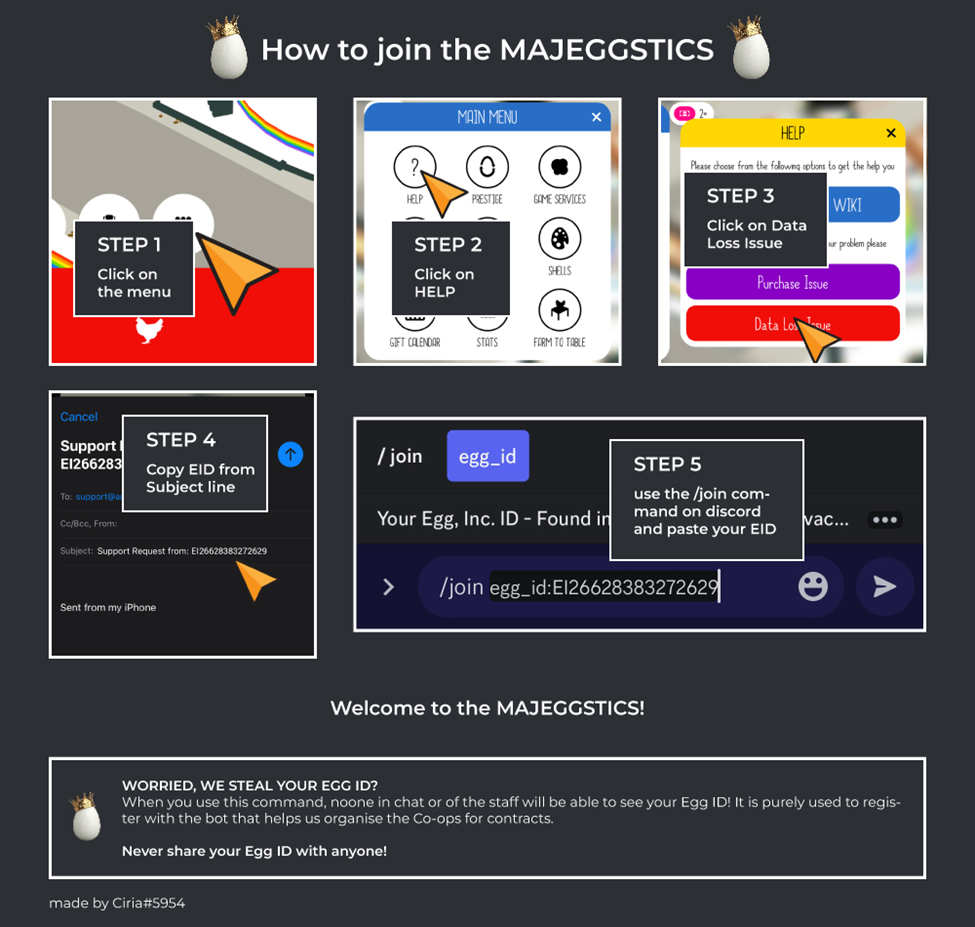
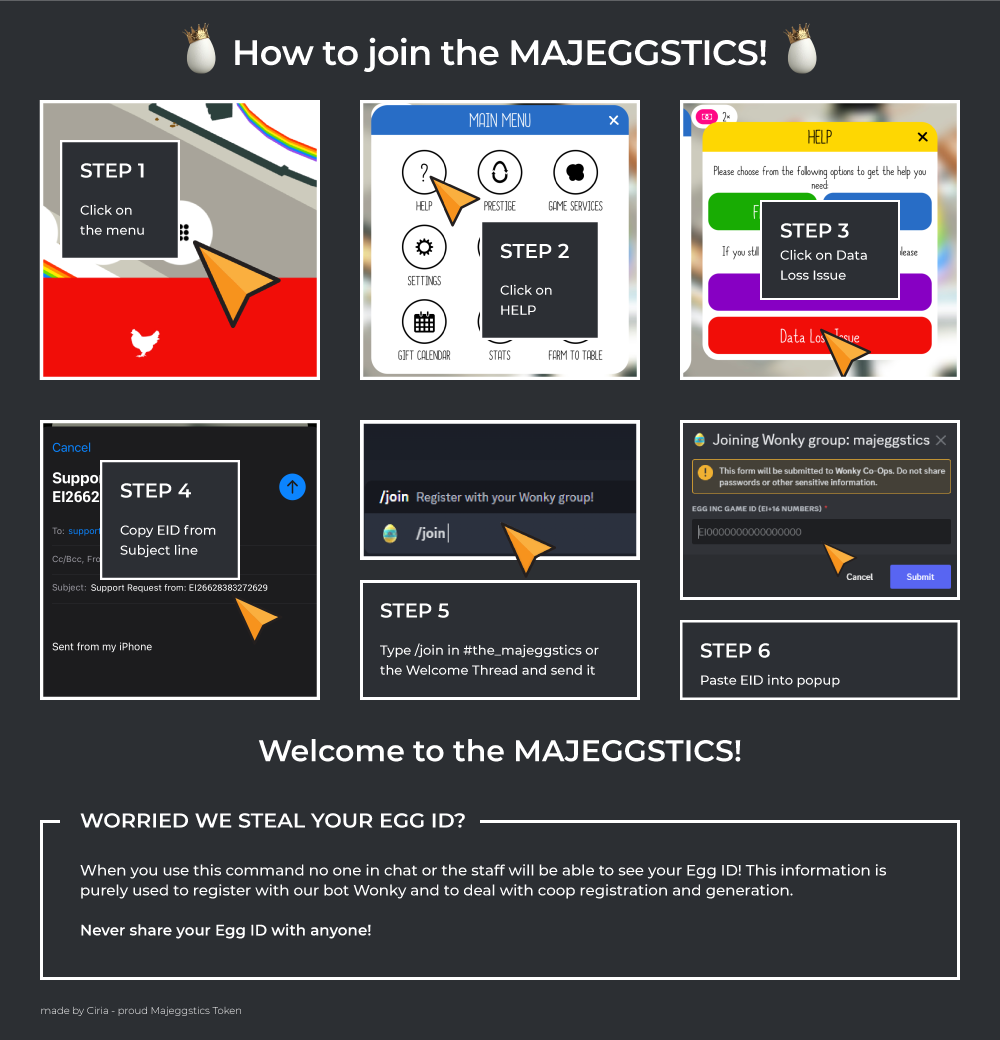
Moved Routes to App component. Updated guide page with Material UI typography. Changed the howToJoinTheMajeggstics image to the latest one. Removed App.css file

diff --git a/src/guide.jsx b/src/guide.jsx
@@ -1,3 +1,5 @@
+import Typography from '@mui/material/Typography';
+
 import newContractIcon from './assets/guide/newContractIcon.jpg';
 import inGameContractInfoPage from './assets/guide/inGameContractInfoPage.png';
 import farmReadyToReceiveCBs from './assets/guide/farmReadyToReceiveCBs.png';
@@ -6,46 +8,46 @@ import howToJoinTheMajeggstics from './assets/guide/howToJoinTheMajeggstics.png'
 
 export default function Guide() {
   return (
-    <main>
+    <main id="guide">
       <section>
-        <h1>
+        <Typography variant="h2" gutterBottom>
           Majeggstics Guide & Rule Book!
-        </h1>
-        <p>Welcome to The Majeggstics, where No Farmer is Left Behind!</p>
-        <p>
+        </Typography>
+        <Typography variant="body1" gutterBottom>Welcome to The Majeggstics, where <em>No Farmer is Left Behind!</em></Typography>
+        <Typography variant="body1" gutterBottom>
           Majeggstics is a worldwide group of Egg Inc. players with the common goal of making sure every player can complete every contract, by optimizing play strategies and making fair contributions to our co-ops.
-        </p>
+        </Typography>
       </section>
       <section>
-        <h2>Minimum rules</h2>
-        <p>
+        <Typography variant="h4" gutterBottom>Minimum rules</Typography>
+        <Typography variant="body1" gutterBottom>
           The Majeggstics are a team - we expect everyone to contribute to our co-ops. When you register for a contract, you are agreeing to meet the minimum contribution for that contract.
-        </p>
-        <p className="bold">
+        </Typography>
+        <Typography variant="body1" gutterBottom>
           The minimum egg laying rate for each contract is posted in #MJ-Announcements. Minimum is measured at 12 and 24 hours after contract start.
-        </p>
-        <p>
+        </Typography>
+        <Typography variant="body1" gutterBottom>
           The 12 hour minimum is lower than the 24 hour minimum. If you meet the 12 hour minimum, you have passed! If you don’t meet the 12 hour minimum, you still have not failed, but you must meet the 24 hour minimum to pass.
-        </p>
-        <p>
+        </Typography>
+        <Typography variant="body1" gutterBottom>
           You will receive a strike for joining your contract later than 5 hours after start, and an additional strike if you have not joined by the 24 hour check. (Strikes may also be given for inappropriate behavior in chat, and server staff are notified when server rules are broken.)
-        </p>
-        <p>
+        </Typography>
+        <Typography variant="body1" gutterBottom>
           Tokens are the human players who manage the Majeggstics - we recruit new members, help people play the game more efficiently, start and add people to co-op groups, and confirm everyone has met the minimum required laying rate for each contract.
-        </p>
-        <p>
+        </Typography>
+        <Typography variant="body1" gutterBottom>
           A token will communicate with you if you receive a strike. Strikes are recorded. After four strikes, you will be removed from Majeggstics. Strikes are only counted for the last 20 contracts you complete - after that, strikes are erased.
-        </p>
-        <p>
+        </Typography>
+        <Typography variant="body1" gutterBottom>
           After a strike, a token will create a private thread in #the_majeggstics to talk to you about what happened, and make sure you are supported to be successful in the future. If you’re concerned you won’t be successful, you can send mj-support anywhere in Majeggstics channels and a support Token will help you out. It can take time to respond, so ask for help using mj-support early on!
-        </p>
-        <p>
+        </Typography>
+        <Typography variant="body1" gutterBottom>
           Remember that the Majeggstic’s goal is to see everyone succeed. Minimums are meant to help you, not hurt. If you’re struggling to meet minimum or need help with a contract, ask for advice in #the_majeggstics or your grade’s Majeggstics channel. The group would be thrilled to help, and everyone will have the chance to learn along with you!
-        </p>
+        </Typography>
       </section>
       <section>
-        <h2>Registering for a Contract
-        </h2>
+        <Typography variant="h4" gutterBottom>Registering for a Contract
+        </Typography>
         <table>
           <thead>
             <tr>
@@ -78,12 +80,12 @@ export default function Guide() {
           </tbody>
         </table>
         <br />
-        <p>
+        <Typography variant="body1" gutterBottom>
           <img src={newContractIcon} alt="New Contract Icon" />
           <span>
             [Image Description: New Contract Icon]
           </span>
-        </p>
+        </Typography>
         <ul>
           <li>
             Monday has a new contract for everyone. The first Monday of each month has a new Prophecy Egg (PE) contract.
@@ -95,15 +97,15 @@ export default function Guide() {
             If you want to be pinged when contracts are released, go to #optional-roles and select the “Contracts” role.
           </li>
         </ul>
-        <p>
+        <Typography variant="body1" gutterBottom>
           When a new contract is released, Wonky, our beloved bot, will generate a registration post in #mj-announcements. Select a time slot - we start contracts at 3 times - +1, +6, and +12 hours after the contract release. Register for the time slot that&apos;s most convenient for your schedule. You must join your co-op and start your farm within 5 hours of your start time. It is your responsibility to register early and join your co-op.
-        </p>
-        <p>Registration for each time slot is finalized when Wonky creates co-ops. We recommend you sign up at least 15 minutes early, as co-ops may be created up to 5 minutes early because of the size of our group. If co-ops are late, be patient with initiators. </p>
-        <p>Late registrations may be accepted depending on initiator availability and available spaces in our co-ops. If you are unable to register for a contract with Majeggstics, you can join a public co-op in the &quot;Co-Op Recruitment&quot; section and join us for the next contract! </p>
+        </Typography>
+        <Typography variant="body1" gutterBottom>Registration for each time slot is finalized when Wonky creates co-ops. We recommend you sign up at least 15 minutes early, as co-ops may be created up to 5 minutes early because of the size of our group. If co-ops are late, be patient with initiators. </Typography>
+        <Typography variant="body1" gutterBottom>Late registrations may be accepted depending on initiator availability and available spaces in our co-ops. If you are unable to register for a contract with Majeggstics, you can join a public co-op in the &quot;Co-Op Recruitment&quot; section and join us for the next contract! </Typography>
       </section>
       <section>
-        <h2>Joining your Co-op</h2>
-        <p>Ping! Pong! Wonky generated your co-op and started a thread in your grade’s channel. Check your DMs from Wonky for the contract code. If you’re the first person, double-check your contract code, then start the co-op immediately. Do not wait in the lobby.</p>
+        <Typography variant="h4" gutterBottom>Joining your Co-op</Typography>
+        <Typography variant="body1" gutterBottom>Ping! Pong! Wonky generated your co-op and started a thread in your grade’s channel. Check your DMs from Wonky for the contract code. If you’re the first person, double-check your contract code, then start the co-op immediately. Do not wait in the lobby.</Typography>
 
         <ul>
           <li>Our co-ops are set to private to ensure that everyone participating meets our expectations. Do not share your co-op code or set the co-op to public - this can result in Majeggstics getting kicked from our co-ops and makes extra work for tokens.
@@ -137,7 +139,7 @@ export default function Guide() {
         </ul>
       </section>
       <section>
-        <h2>Start and grow your contract farm</h2>
+        <Typography variant="h4" gutterBottom>Start and grow your contract farm</Typography>
         <ul>
           <li>Finish common research, buy habs, and buy transport.
             <ul>
@@ -196,9 +198,9 @@ export default function Guide() {
         </ul>
       </section>
       <section>
-        <h2>
+        <Typography variant="h4" gutterBottom>
           Boosting
-        </h2>
+        </Typography>
         <ul>
           <li>
             Use GomCalc, Forks’ Egg Inc Tools, and Hashtru’s Contract Boost Calculator to help determine the best boost combination for your goals - these will vary widely depending on the contract, number of players in your group, your EB, and artifacts.
@@ -218,9 +220,9 @@ export default function Guide() {
         </ul>
       </section>
       <section>
-        <h2>
+        <Typography variant="h4" gutterBottom>
           Post-boosting
-        </h2>
+        </Typography>
         <ul>
           <li>
             Tachyon Deflectors boost your co-op mates' laying rates - since Majeggstics aim for equal contributions, a deflector will benefit your co-op overall more than any artifact that only works on your individual farm.
@@ -256,16 +258,16 @@ export default function Guide() {
         </ul>
       </section>
       <section>
-        <h2>Completion</h2>
+        <Typography variant="h4" gutterBottom>Completion</Typography>
         <ul>
           <li>Check in ASAP after the contract has finished so that your contract score can be calculated. </li>
         </ul>
       </section>
       <section>
-        <h2>Taking Breaks & Leaving</h2>
-        <p>
+        <Typography variant="h4" gutterBottom>Taking Breaks & Leaving</Typography>
+        <Typography variant="body1" gutterBottom>
           We’re here to help you be successful with contracts, but we understand that sometimes you need a break.
-        </p>
+        </Typography>
         <ul>
           <li>Not registering - you can skip registering for contracts with us whenever you like with no penalties.
           </li>
@@ -278,8 +280,8 @@ export default function Guide() {
         </ul>
       </section>
       <section>
-        <h2>Code of Conduct</h2>
-        <p>Is it a privilege for Majeggstics to have access to private channels and Wonky in the Egg, Inc. server. Because of our special status, we have high expectations for your behavior in our channels and around the server.</p>
+        <Typography variant="h4" gutterBottom>Code of Conduct</Typography>
+        <Typography variant="body1" gutterBottom>Is it a privilege for Majeggstics to have access to private channels and Wonky in the Egg, Inc. server. Because of our special status, we have high expectations for your behavior in our channels and around the server.</Typography>
         <ul>
           <li>Follow server #rules. Majeggstics members and channels must follow the Egg, Inc. server rules. Violating server rules will lead to removal from Majeggstics and the Egg, Inc. server. </li>
           <li>Keep chat in Majeggstics kind and appropriate for all, and be a good representative of Majeggstics in public channels. </li>
@@ -335,7 +337,7 @@ export default function Guide() {
         </ul>
       </section>
       <section>
-        <h2>Useful Links</h2>
+        <Typography variant="h4" gutterBottom>Useful Links</Typography>
         <ul>
           <li>Server #Rules</li>
           <li>Ciria’s Useful Links Pin in #the_majeggstics</li>
@@ -345,22 +347,22 @@ export default function Guide() {
         </ul>
       </section>
       <section>
-        <h2>Joining Majeggstics</h2>
-        <p>Ready to get started?</p>
-        <p>Open the game and find your EID: Open the ‘9 dots’ menu, touch ‘Help’, then ‘Data Loss Issue’. This will open an email, and you can copy your EID from the subject line. You’ll receive a confirmation DM from Wonky, the bot who helps run our co-ops, and your EID will be deleted from the chat to protect your privacy.</p>
-        <p>By sending the /join command, you are agreeing to follow Majeggstics rules. </p>
-        <p>
+        <Typography variant="h4" gutterBottom>Joining Majeggstics</Typography>
+        <Typography variant="body1" gutterBottom>Ready to get started?</Typography>
+        <Typography variant="body1" gutterBottom>Open the game and find your EID: Open the ‘9 dots’ menu, touch ‘Help’, then ‘Data Loss Issue’. This will open an email, and you can copy your EID from the subject line. You’ll receive a confirmation DM from Wonky, the bot who helps run our co-ops, and your EID will be deleted from the chat to protect your privacy.</Typography>
+        <Typography variant="body1" gutterBottom>By sending the /join command, you are agreeing to follow Majeggstics rules. </Typography>
+        <Typography variant="body1" gutterBottom>
           <img src={howToJoinTheMajeggstics} alt="How to join the Mageggstics" />
-        </p>
-        <p>
+        </Typography>
+        <Typography variant="body1" gutterBottom>
           Welcome to the Majeggstics, we’re happy to have you!
-        </p>
-        <p>
+        </Typography>
+        <Typography variant="body1" gutterBottom>
           If Majeggstics won’t be a good fit for you, DM @megadanger and ask to be removed from the group. Check the staff list in #mj-announcements to find our current member manager.
-        </p>
-        <p>
+        </Typography>
+        <Typography variant="body1" gutterBottom>
           The public “#Co-Op Recruitment” section can help you find co-ops, or you can look for other open groups that may fit your goals and needs better.
-        </p>
+        </Typography>
       </section>
     </main >
   )

diff --git a/src/App.jsx b/src/App.jsx
@@ -1,37 +1,21 @@
-import { Link } from 'react-router-dom'
-import './App.css'
+import { Route, Routes } from 'react-router-dom';
+
+import ErrorPage from './error-page.jsx';
+import Guide from './guide.jsx';
+import Home from './home.jsx';
 
 function App() {
-
   return (
-    <main>
-      <h1>The Majeggstics</h1>
-      <section>
-        <div>
-          <h3>
-            Welcome to The Majeggstics, where No Farmer is Left Behind!
-          </h3>
-          <p>
-            Majeggstics is a worldwide group of Egg Inc. players with the common goal of making sure every player can complete every contract, by optimizing play strategies and making fair contributions to our co-ops.
-          </p>
-          <br />
-          <p>
-            How to join our group? <br />
+    <Routes>
+      <Route path="/" element={<Home />} />
+      <Route path="guide" element={<Guide />} />
 
-            You&apos;ll need to join the Egg Inc. discord server at the link below and <abbr title="Direct Message">DM</abbr> one of our recruiters (@placeholder).
-          </p>
-          <br />
-          <p>
-            <a href="https://discord.gg/egginc" target='_blank' rel="noreferrer">Egg Inc. discord</a>
-          </p>
-
-          <p>
-            <Link to="/guide">Guide</Link>
-          </p>
-        </div>
-      </section>
-    </main>
+      {/* Using path="*"" means "match anything", so this route
+                acts like a catch-all for URLs that we don't have explicit
+                routes for. */}
+      <Route path="*" element={<ErrorPage />} />
+    </Routes>
   )
 }
 
-export default App
+export default App;

diff --git a/src/home.jsx b/src/home.jsx
@@ -1,0 +1,35 @@
+import { Link } from 'react-router-dom';
+
+function Home() {
+  return (
+    <main>
+      <h1>The Majeggstics</h1>
+      <section>
+        <div>
+          <h3>
+            Welcome to The Majeggstics, where No Farmer is Left Behind!
+          </h3>
+          <p>
+            Majeggstics is a worldwide group of Egg Inc. players with the common goal of making sure every player can complete every contract, by optimizing play strategies and making fair contributions to our co-ops.
+          </p>
+          <br />
+          <p>
+            How to join our group? <br />
+
+            You&apos;ll need to join the Egg Inc. discord server at the link below and <abbr title="Direct Message">DM</abbr> one of our recruiters (@placeholder).
+          </p>
+          <br />
+          <p>
+            <a href="https://discord.gg/egginc" target='_blank' rel="noreferrer">Egg Inc. discord</a>
+          </p>
+
+          <p>
+            <Link to="/guide">Guide</Link>
+          </p>
+        </div>
+      </section>
+    </main>
+  )
+}
+
+export default Home;

diff --git a/src/main.jsx b/src/main.jsx
@@ -1,11 +1,10 @@
 import React from 'react'
 import ReactDOM from 'react-dom/client'
 import {
-  BrowserRouter,
-  Route,
-  Routes,
+  BrowserRouter
 } from "react-router-dom"
 import App from './App.jsx'
+
 import './index.css'
 import '@fontsource/roboto/300.css';
 import '@fontsource/roboto/400.css';
@@ -13,22 +12,11 @@ import '@fontsource/roboto/500.css';
 import '@fontsource/roboto/700.css';
 import CssBaseline from '@mui/material/CssBaseline';
 
-import ErrorPage from './error-page.jsx'
-import Guide from './guide.jsx'
-
 ReactDOM.createRoot(document.getElementById('root')).render(
   <React.StrictMode>
     <CssBaseline />
     <BrowserRouter>
-      <Routes>
-        <Route path="/" element={<App />} />
-        <Route path="guide" element={<Guide />} />
-
-        {/* Using path="*"" means "match anything", so this route
-                acts like a catch-all for URLs that we don't have explicit
-                routes for. */}
-        <Route path="*" element={<ErrorPage />} />
-      </Routes>
+      <App />
     </BrowserRouter>
   </React.StrictMode>,
 )

diff --git a/src/index.css b/src/index.css
@@ -3,6 +3,11 @@ body {
   margin: auto;
 }
 
+main {
+  max-width: 80%;
+  margin: 2rem auto;
+}
+
 .bold {
   font-weight: 600;
 }
@@ -21,4 +26,8 @@ table td {
 img {
   object-fit: contain;
   max-width: 75vw;
+}
+
+#guide section {
+  margin-bottom: 1rem;
 }
